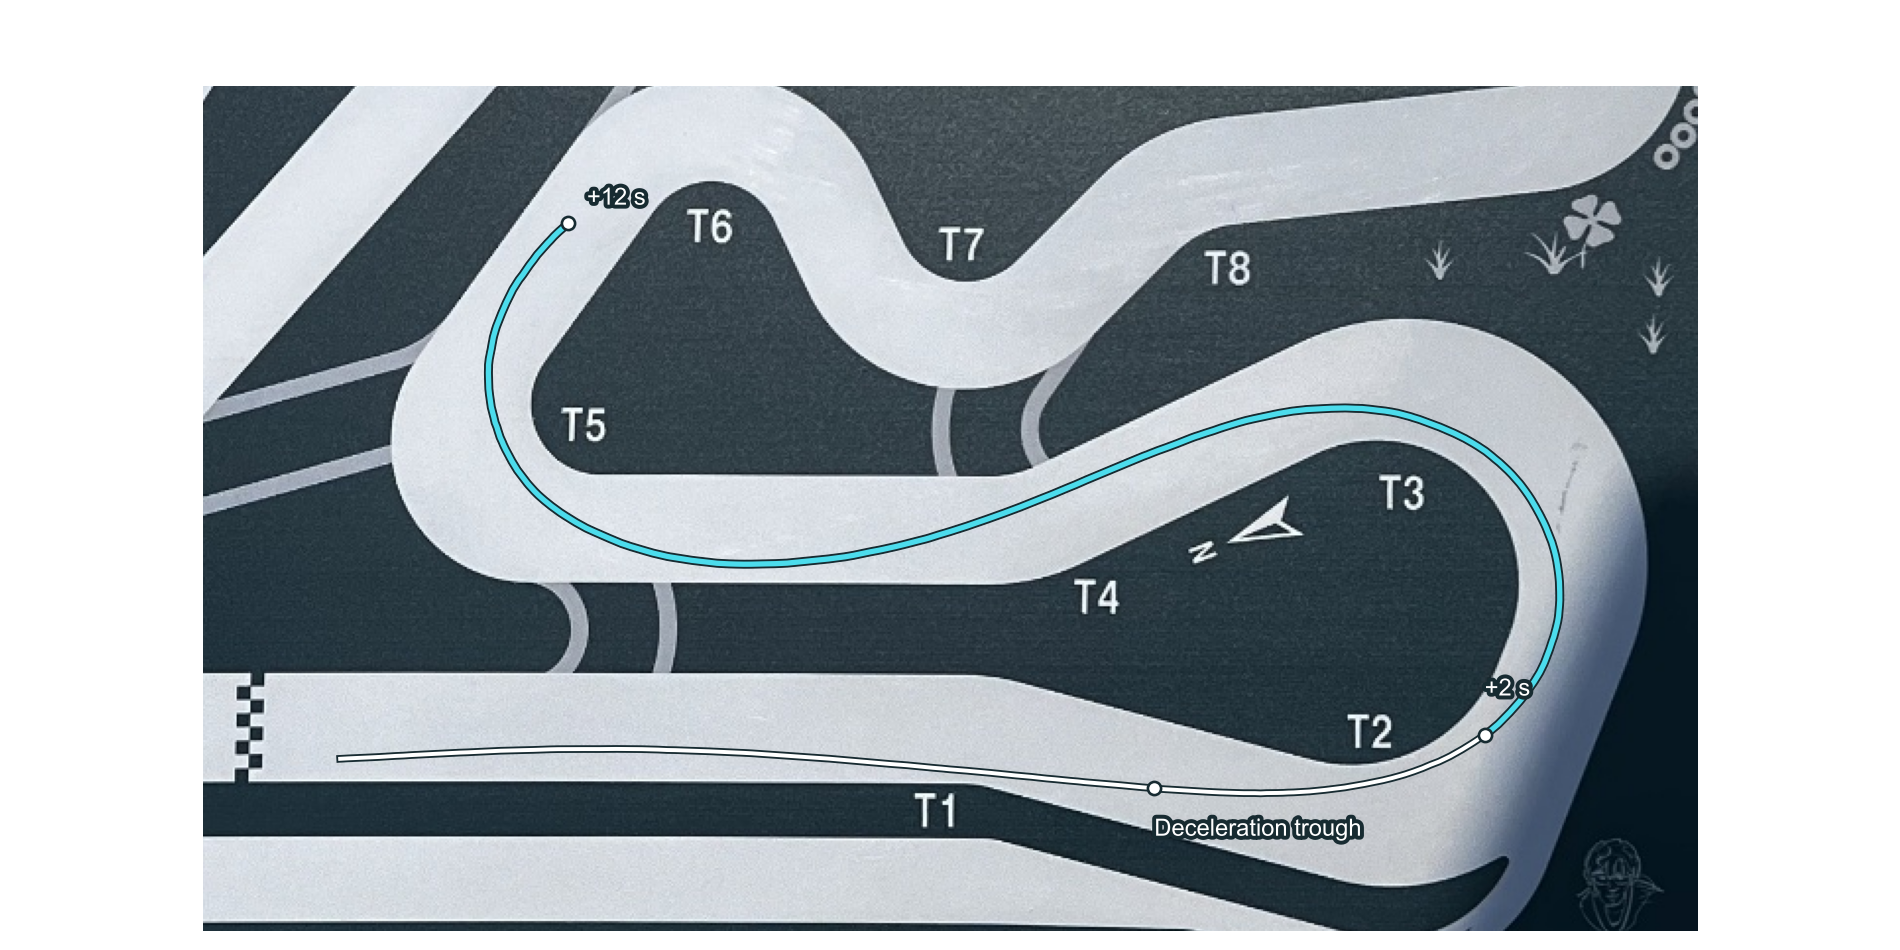
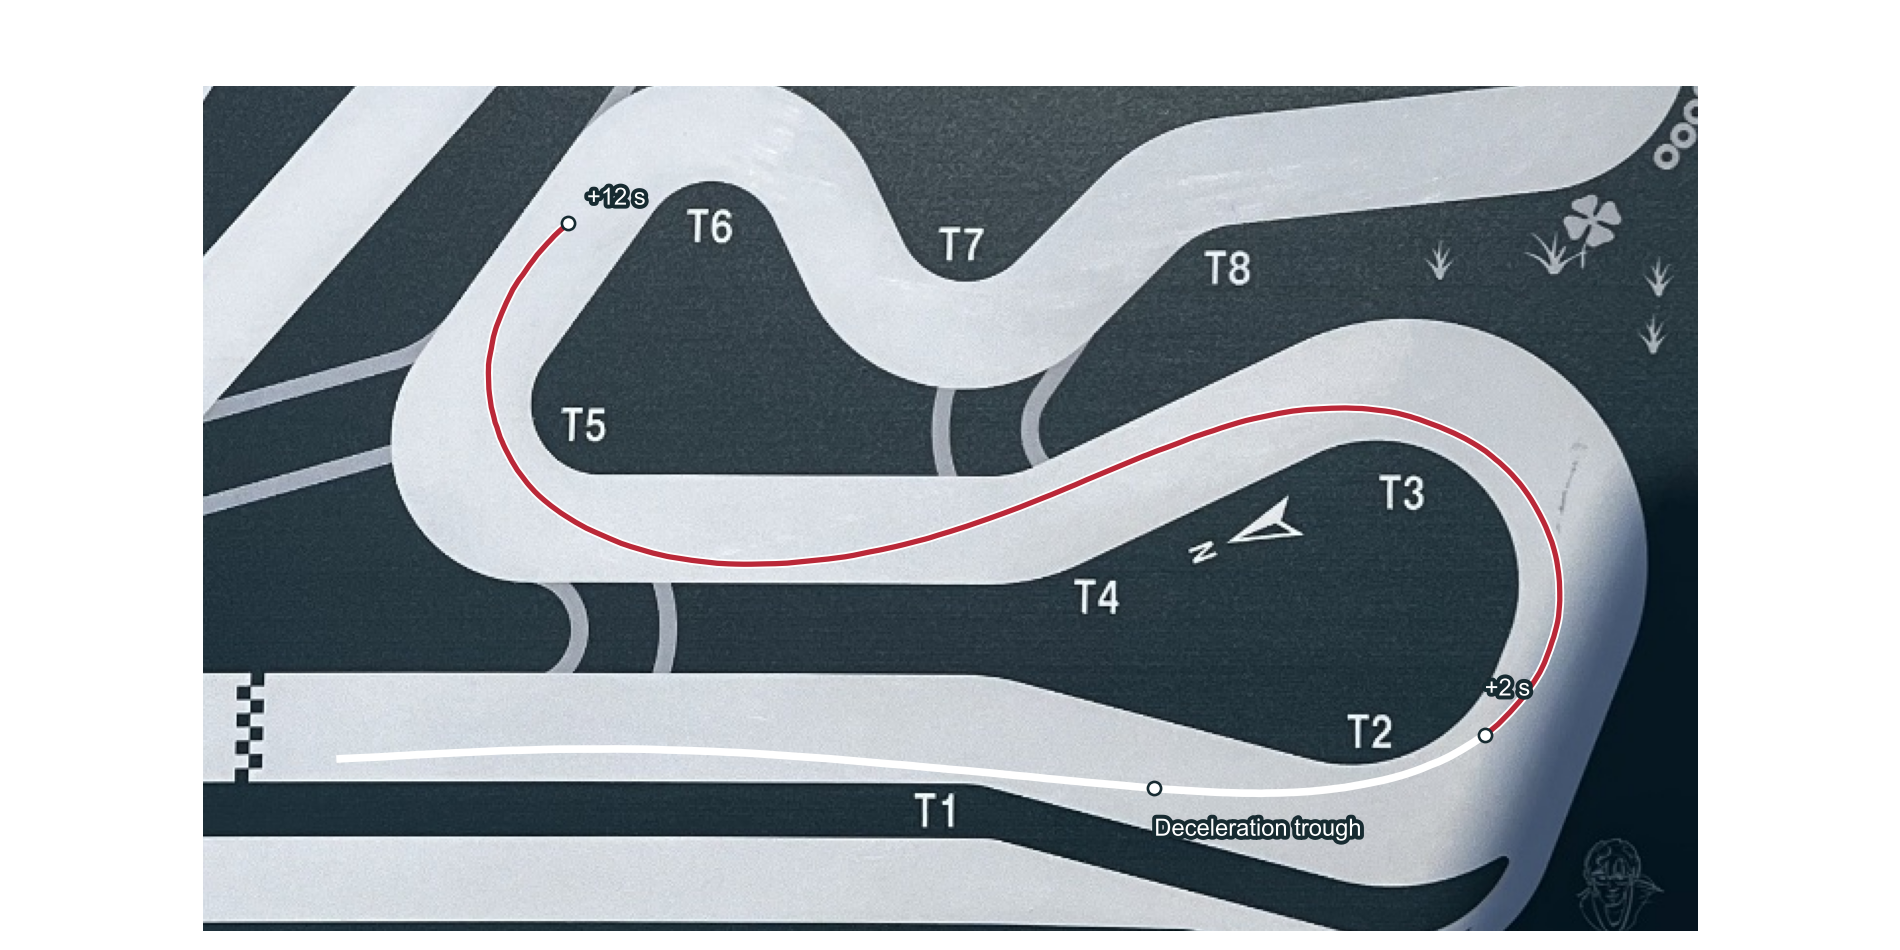
Unify GPR analysis figures in red and graphite grey

diff --git a/case_studies/p1-gpr150-analysis.md b/case_studies/p1-gpr150-analysis.md
@@ -113,7 +113,7 @@ S09's deliberate exercise sharpens the same contrast: L10 takes **5.702 s** thro
 
 ![Location of final PB gains on the photographed P1 board](../assets/p1/p1-pb-board-gains.png)
 
-Cyan solid intervals gain time; amber dashed intervals return time. The quantitative chart below uses red and grey for the same interval results.
+Red solid intervals gain time; grey dashed intervals return time. The quantitative chart below uses the same colours.
 
 ![Final PB gains placed on the circuit](../assets/p1/p1-pb-track-gains.png)
 
